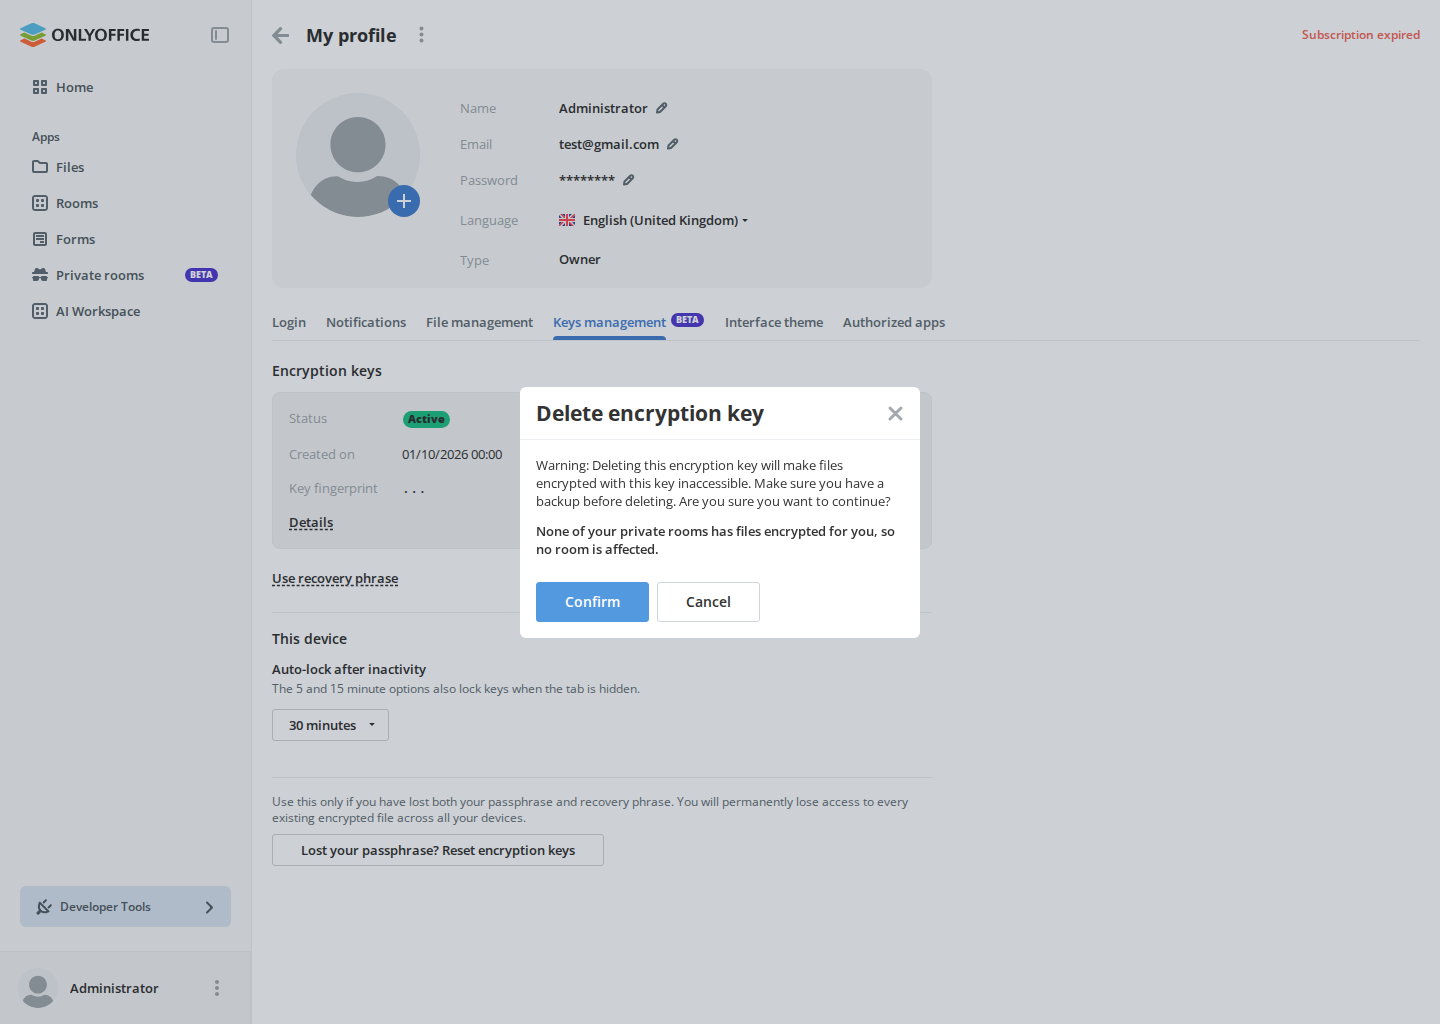
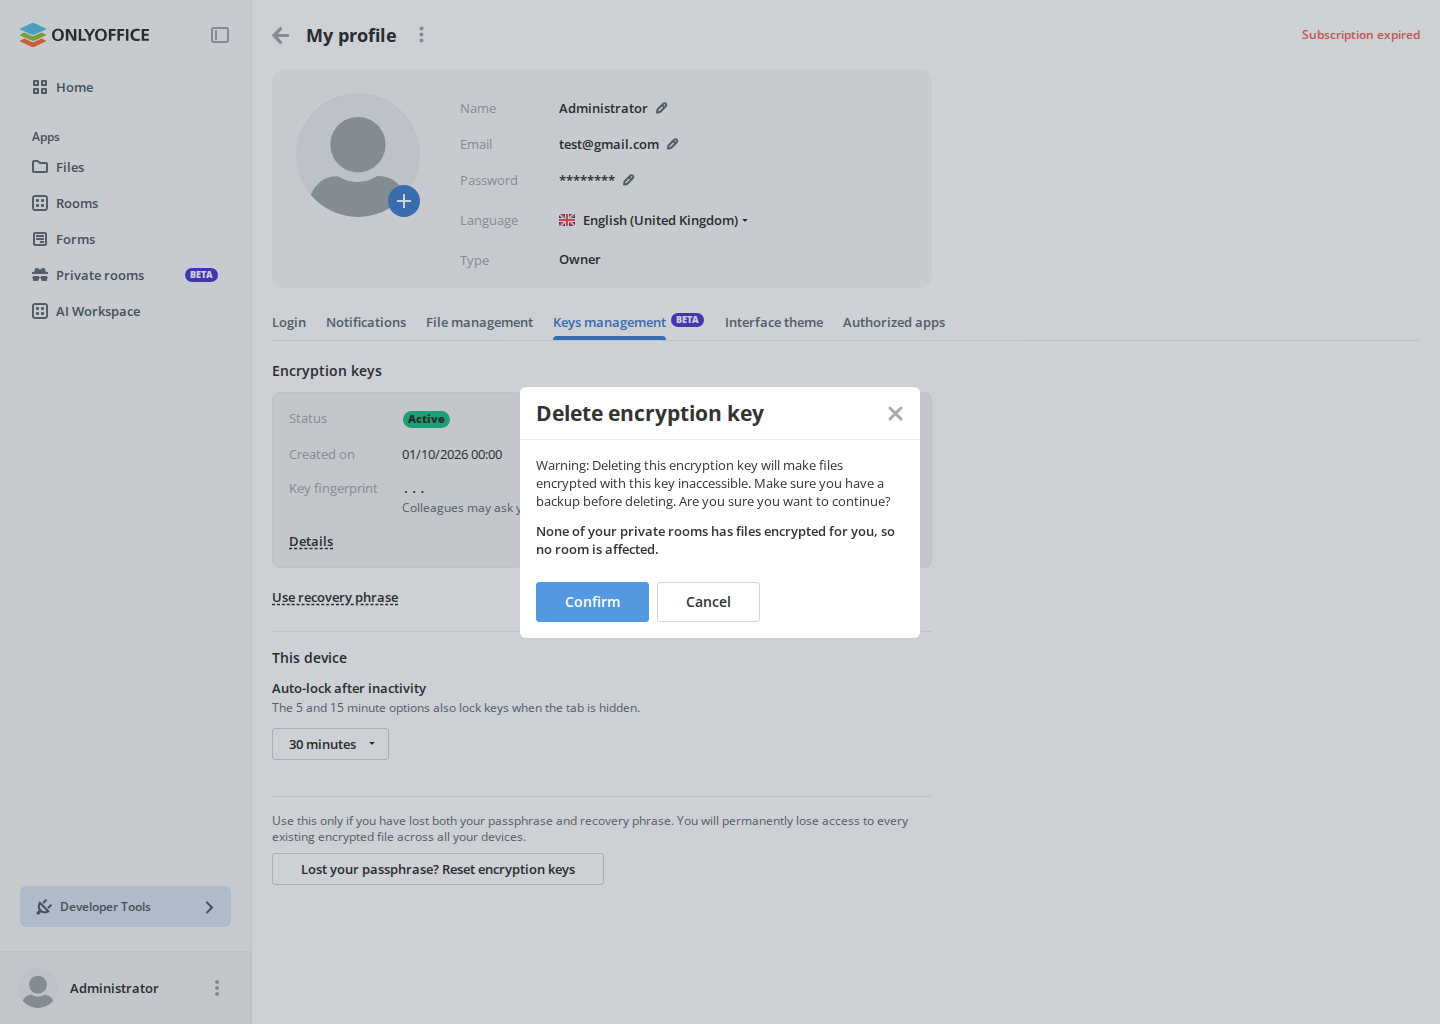
Client: Private rooms: say what the key fingerprint is for
The key card of Keys management showed the fingerprint without saying
why. A line under it now says that colleagues may ask for it to confirm
that the user's key has changed, and the fingerprint names that line as
its description, so assistive technology reads the two together.

Common:KeyFingerprintHint is added with its translator comment and
translated into every language, with the term for the fingerprint each
language already uses. The screenshot of the delete warning, which shows
the card behind it, is updated.

OpenSpec: private-rooms-release-ux-fixes 3.2

diff --git a/packages/client/src/pages/Profile/Section/Body/sub-components/keys-management/KeysList.tsx b/packages/client/src/pages/Profile/Section/Body/sub-components/keys-management/KeysList.tsx
@@ -78,6 +78,7 @@ const KeyItem: React.FC<KeyItemProps> = ({
   const [fingerprint, setFingerprint] = useState<string>("");
   const [detailsOpen, setDetailsOpen] = useState(false);
   const detailsId = useId();
+  const fingerprintHintId = useId();
 
   useEffect(() => {
     const loadFingerprint = async () => {
@@ -176,9 +177,23 @@ const KeyItem: React.FC<KeyItemProps> = ({
           <Text fontSize="13px" className={styles.detailsLabel}>
             {t("Common:KeyFingerprint")}
           </Text>
-          <Text fontSize="13px" className={styles.monoValue}>
-            {fingerprint || "..."}
-          </Text>
+          <div className={styles.fingerprintCell}>
+            <Text
+              fontSize="13px"
+              className={styles.monoValue}
+              aria-describedby={fingerprintHintId}
+              data-testid="key_fingerprint"
+            >
+              {fingerprint || "..."}
+            </Text>
+            <Text
+              id={fingerprintHintId}
+              fontSize="12px"
+              className={styles.fingerprintHint}
+            >
+              {t("Common:KeyFingerprintHint")}
+            </Text>
+          </div>
           <div className={styles.detailsToggleRow}>
             <Link
               type={LinkType.action}

diff --git a/packages/client/src/pages/Profile/Section/Body/sub-components/keys-management/__tests__/KeysList.test.tsx b/packages/client/src/pages/Profile/Section/Body/sub-components/keys-management/__tests__/KeysList.test.tsx
@@ -193,6 +193,17 @@ describe("KeysList", () => {
   });
 });
 
+describe("The fingerprint says what it is for", () => {
+  it("Hint shown", async () => {
+    renderList([keyNew]);
+
+    const fingerprint = await screen.findByTestId("key_fingerprint");
+    expect(fingerprint).toHaveTextContent("FINGERPRINT");
+    expect(screen.getByText("Common:KeyFingerprintHint")).toBeVisible();
+    expect(fingerprint).toHaveAccessibleDescription("Common:KeyFingerprintHint");
+  });
+});
+
 describe("Technical key details are folded", () => {
   const toggle = () =>
     screen.getByRole("button", { name: "Common:Details" });

diff --git a/packages/client/src/pages/Profile/Section/Body/sub-components/keys-management/KeysManagement.module.scss b/packages/client/src/pages/Profile/Section/Body/sub-components/keys-management/KeysManagement.module.scss
@@ -137,6 +137,18 @@
   white-space: nowrap;
 }
 
+.fingerprintCell {
+  display: flex;
+  flex-direction: column;
+  gap: 4px;
+  min-width: 0;
+}
+
+.fingerprintHint {
+  color: var(--text-secondary);
+  line-height: 16px;
+}
+
 .detailsToggleRow {
   grid-column: 1 / -1;
 }

diff --git a/openspec/changes/private-rooms-release-ux-fixes/tasks.md b/openspec/changes/private-rooms-release-ux-fixes/tasks.md
@@ -21,7 +21,7 @@ and SDK unit tests must stay green.
 ## 3. Key details in Keys management
 
 - [x] 3.1 Fold the key id and the algorithm under `Common:Details` in `packages/client/src/pages/Profile/Section/Body/sub-components/keys-management/KeysList.tsx`, closed on open, operable from the keyboard and exposed as expanded or collapsed. Verify: cases "Page opens" and "Details opened" in `keys-management/__tests__/KeysList.test.tsx`
-- [ ] 3.2 Add `Common:KeyFingerprintHint` next to the fingerprint, tied to it as its description; translate it. Verify: a unit case "Hint shown" and the locale tests
+- [x] 3.2 Add `Common:KeyFingerprintHint` next to the fingerprint, tied to it as its description; translate it. Verify: a unit case "Hint shown" and the locale tests
 - [ ] 3.3 Give the labels of the key details a colour of at least 4.5:1 and the action icons one of at least 3:1 in both themes, in `KeysManagement.module.scss` and `KeysList.tsx`; if the icon colour comes from the kit's icon button and cannot be set by the page, fix it in the kit. Verify: a Playwright case in `packages/client/__tests__/keys-management.spec.ts` that reads the computed colours in the light and in the dark theme and asserts the two ratios, and the Keys management screenshots updated under Docker
 
 ## 4. Invitation result
